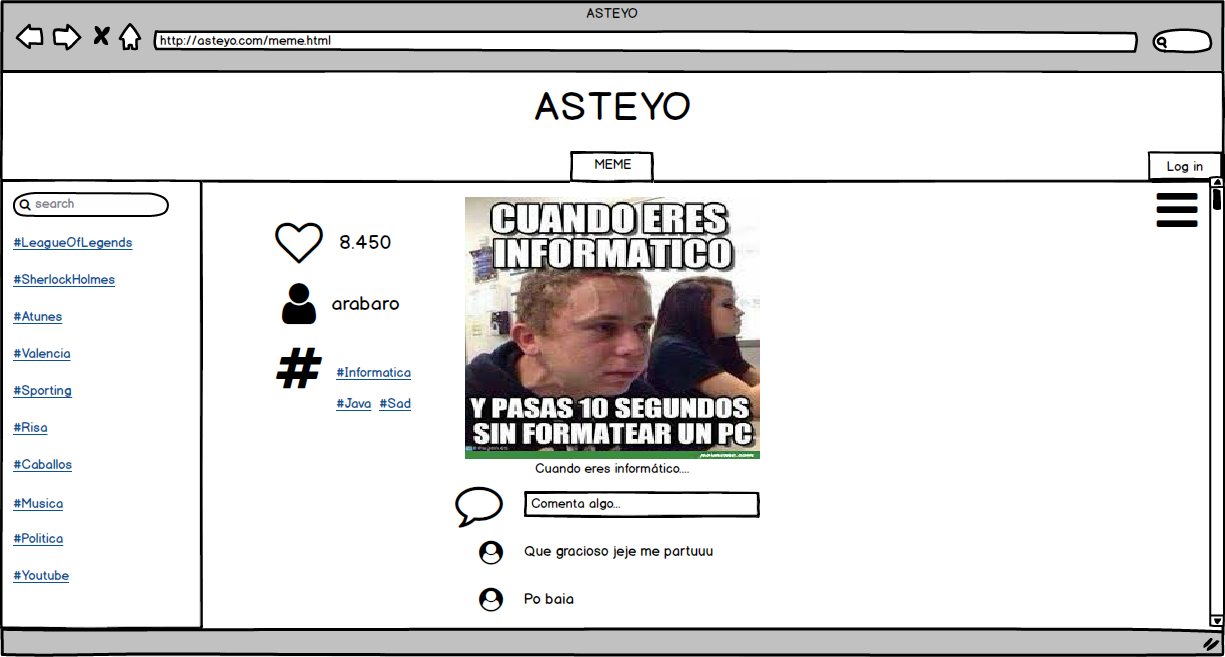
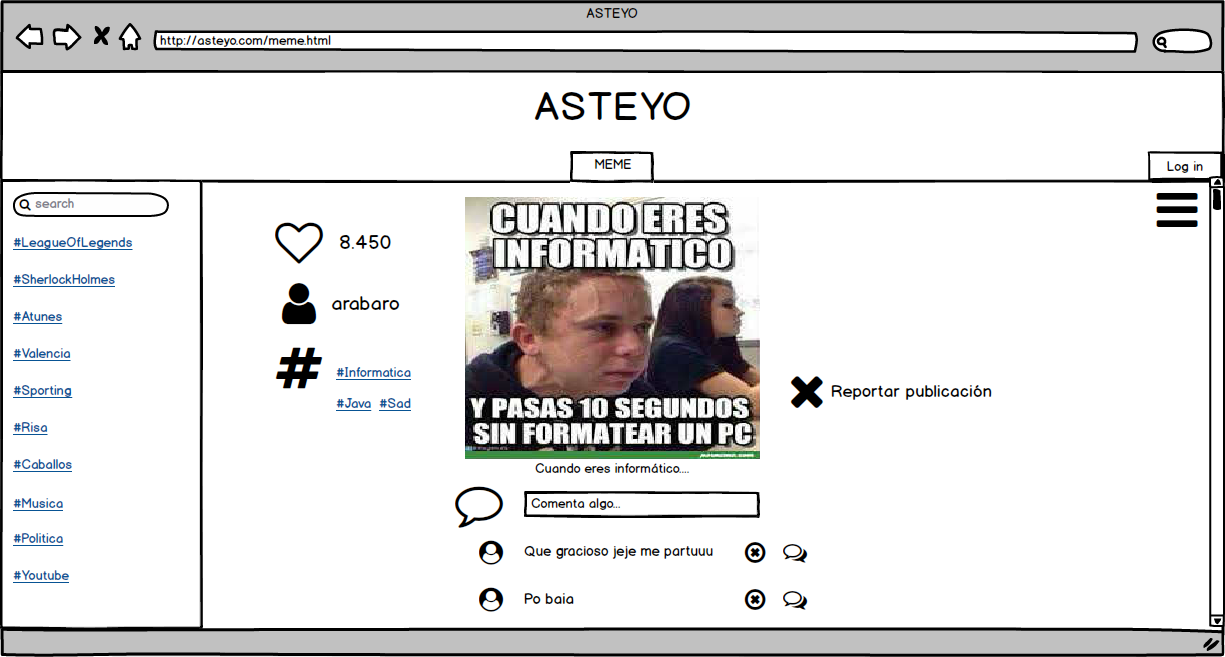
bocetos terminados

diff --git a/Practica 1/bocetos.html b/Practica 1/bocetos.html
@@ -16,34 +16,84 @@
         </ul>
 
 
-        <h1>BOCETOS</h1>
+        <h1 align="center">BOCETOS</h1>
 		
-		<img src="img/PRINCIPAL.png">
-		<h3>PANTALLA PRINCIPAL</h3>
-		<p>En la cabecera sale el nombre de la página, una opción para hacer log in y otra para salir.
-		Esta cabecera estará visible durante toda la navegación de la página. En la parte izquierda tendremos un buscador y una
-		caja con varias etiquetas disponibles. En la parte central veremos los memes publicados, por defecto se cargarán los últimos subidos.
-		En la parte derecha, tendremos un desplegable a través de un menú burguer, con opciones para visualizar tu perfil, un ranking o volver a los últimos publicados.</p>
-		<img src="img/LOG_IN.png">
-		<h3>LOG IN</h3>
-		<p>En la pantalla de login vemos un panel para insertar el nombre y otro para la contraseña, en caso de no tener cuenta
-		se puede clickar en registrarse para crear una nueva.
-		<img src="img/REGISTRO.png">
-		<h3>REGISTRO</h3>
-		<p>Tiene campos para rellenar con el correo, nombre de usuario, contraseña, repetirla y dos checkbox para aceptar las condiciones y decir que no eres un robot.</p>
-		<img src="img/RANKING.png">
-		<h3>RANKING</h3>
-		<p>Vemos un enumerado con los Memes ordenados por número de likes para poder ver los que más likes tienen.</p>
-		<img src="img/PERFIL.png">
-		<h3>PERFIL</h3>
-		<p>Hay foto de perfil e información del usuario con todas las publicaciones relacionadas con ese usuario.</p>
-		<img src="img/MEME.png">
-		<h3>MEME</h3>
-		<p>Podemos observar la franja de la izquierda con hashtags aleatorios en el momento
-		y a la derecha un menú desplegable, en el centro tendríamos el meme con la persona que lo ha subido y un botón para comentar, 
-		aparte de un corazón para dar like. Por último se podrá reportar los comentarios y responder a los comentarios. Hay un bocadillo al lado de login,
-		ésto es para ver las notificaciones relacionadas con nuestras publicaciones y solo aparececerán al estar logeados.
-		</p>
+		<u><h3 id="principal" align="center">PANTALLA PRINCIPAL</h3></u>
+		<p align="center">En la cabecera sale el nombre de la página. En este boceto hemos hecho que el usuario haya iniciado sesión
+		para ver mejor los elementos de la pantalla, si no hubiera iniciado sesión el botón salir se convertiría en <a href="#log">"Log in"</a>. En siguientes pantallas cambiamos la cabecera porque el usuario no ha iniciado sesión. En
+		este caso en la cabecera sale el <a href="#perfil">nombre de usuario</a>, una opción para salir y otros dos símbolos, uno para entrar en la <a href="#mensajes">bandeja de entrada</a> y leer
+		los mensajes (si fuera administrador <a href="#administrador">la pantalla mensajes sería distinta</a>) y otro para <a href="#publicar">publicar un meme nuevo</a>. 
+		Aparte tenemos una barra en la izquierda donde se podrán buscar etiquetas de memes y una serie de <a href="#etiqueta">"hashtag"</a> en los cuales podremos pinchar para ver los memes
+		con esas etiquetas. Este elemento estará visible durante toda la navegación en la página.
+		En la barra de la derecha tenemos 3 botones. Estos botones están visibles ya que antes debemos haber pinchado en el menú burguer. Los 3 botones son <a href="#perfil">perfil</a>, <a href="#ranking">ránking</a> 
+		y <a href="#principal">últimos</a>. Se puede pulsar en cualquier <a href="#meme">meme</a> 
+		para verlo más ampliado, con más información y comentarios
+		Si el usuario no estuviera registrado al pinchar en perfil nos llevaría a la pantalla de <a href="#log">"Log in"</a>, si está registrado le llevará a su perfil. Los demás botones nos dirigiran 
+		a las pantallas con el nombre del botón.
+		En la parte central tenemos por defecto los últimos memes publicados.</p>
+		<div align="center"><img src="img/Principal.png"></div>
+		
+		
+		<u><h3 id="log" align="center">LOG IN</h3></u>
+		<p align="center">En la pantalla de "Log In"" vemos un panel para insertar el nombre y otro para la contraseña, en caso de no tener cuenta
+		se puede clickar en <a href="#registro">registrarse</a> para crear una nueva.
+		Al pinchar en <a href="#principal">"Asteyo"</a> debería de llevarnos a la página principal, por si no queremos iniciar sesión. Esto sucederá durante toda
+		la navegación en la página.</p>
+		<div align="center"><img src="img/LogIn.png"></div>
+		
+		
+		<u><h3 id="registro" align="center">REGISTRO</h3></u>
+		<p align="center">Tiene campos para rellenar: el correo, nombre de usuario, contraseña y repetirla para asegurarnos que no haya cometido el usuario
+		ningún fallo al introducirla por primera vez, y dos checkbox para aceptar las condiciones y decir que no eres un robot. Si ya tienes una cuenta se podrá pulsar en <a href="#log">Iniciar Sesión</a></p>
+		<div align="center"><img src="img/Registrarse.png"></div>
+		
+		
+		<u><h3 id="ranking" align="center">RANKING</h3></u>
+		<p align="center">Vemos un enumerado con los Memes ordenados por número de likes para poder ver los que más likes tienen. Se puede pulsar en cualquier <a href="#meme">meme</a> 
+		para verlo más ampliado, con más información y comentarios.</p>
+		<div align="center"><img src="img/Ranking.png"></div>
+		
+		
+		<u><h3 id="perfil" align="center">PERFIL</h3></u>
+		<p align="center">Hay una foto de perfil e información del usuario: el nombre de usuario, el rango, el número de lokes totales de sus publicaciones y el número de memes publicados.
+		Además de todas las publicaciones subidas por ese usuario. Hay un botón editar (No hemos creado una pantalla Editar ya que sería como la de Perfil pero pudiendo cambiar algún campo).</p>
+		<div align="center"><img src="img/Perfil.png"></div>
+		
+		
+		<u><h3 id="meme" align="center">MEME</h3></u>
+		<p align="center">En el centro de la pantalla veremos el meme, a su izquierda un corazón para dar like y los likes totales de la publicación, el usuario que lo ha subido (pinchando en el usuario
+		iremos directamente a su <a href="#perfil">perfil<a>) y por últimos las <a href="#etiqueta">etiquetas</a> a las que pertenece. En la parte inferior tendremos la opción para comentar y además los comentarios 
+		de las demás personas, podremos <a href="reportar">reportar</a> o responder a los mensajes. En la parte izquierda tenemos la opción de <a href="reportar">reportar</a> el meme. La ubicación de estas opciones
+		puede variar.</p>
+		<div align="center"><img src="img/Meme.png"></div>
+		
+		
+		<u><h3 id="mensajes" align="center">MENSAJES</h3></u>
+		<p align="center">En esta pantalla tenemos todas las interacciones con nuestro perfil y nuestras publicaciones. Como vemos en el ejemplo este usuario tiene 4 comentarios nuevos en sus publicaciones. Si fuera
+		administrador <a href="#administrador">la pantalla sería distinta</a>.</p>
+		<div align="center"><img src="img/Mensajes.png"></div>
+		
+		
+		<u><h3 id="publicar" align="center">PUBLICAR</h3></u>
+		<p align="center">Aquí vemos dos posibles variantes para subir un archivo: creándolo con título y etiquetas más subiendo un archivo de tu ordenador; y por otro lado utilizando alguna plantilla (no hemos creado
+		boceto de las plantillas ya que no sabemos cuales utilizaremos.) Una vez creado el meme pulsaremos en publicar, se subirá y nos redirigirá a la <a href="principal">pantalla principal</a>.</p>
+		<div align="center"><img src="img/Publicar.png"></div>
+		
+		
+		<u><h3 id="administrador" align="center">MENSAJES DEL ADMINISTRADOR</h3></u>
+		<p align="center">Esta es una pantalla muy parecida a la pantalla mensjaes de los usuarios corrientes, pero en la parte derecha de los mensajes nos saldrán los reportes de los usuarios, habrá opción de eliminar
+		(el dedo hacia abajo) o permitir el comentario (el dedo hacia arriba).</p>
+		<div align="center"><img src="img/MensajesAdministrador.png"></div>
+		
+		<u><h3 id="etiqueta" align="center">HASHTAGS</h3></u>
+		<p align="center">En la parte central de la cabecera pondrá el nombre de la etiqueta en la que hemos pulsado. El resto será todo igual. Nos saldrán los memes más recientes publicados con la 
+		etiqueta que hemos buscado.</p>
+		<div align="center"><img src="img/etiquetas.png"></div>
+		
+		<u><h3 id="reportar" align="center">REPORTAR</h3></u>
+		<p align="center">Nos saldrá el comentario que queremos reportar (En este caso). También tendremos una tabla con las opciones de reporte que le llegarán al administrador, y un botón para finalizar el reporte. Una vez
+		reportado nos llevará de nuevo al <a href="meme">meme</a> en el que estábamos.</p>
+		<div align="center"><img src="img/reportar.png"></div>
 
     </body>
 
